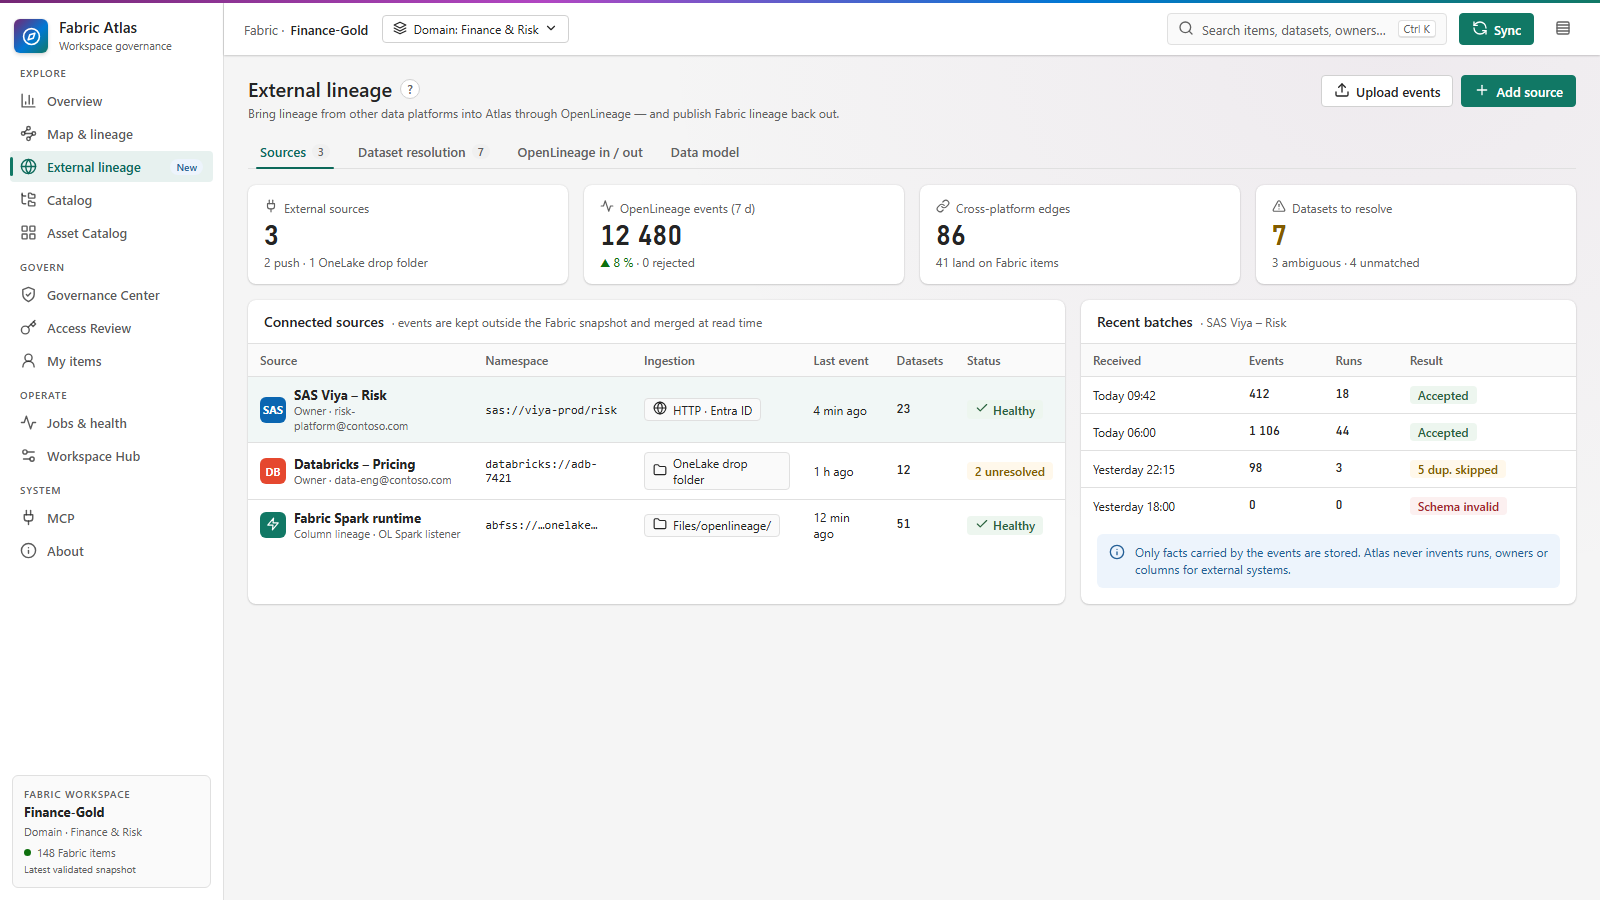
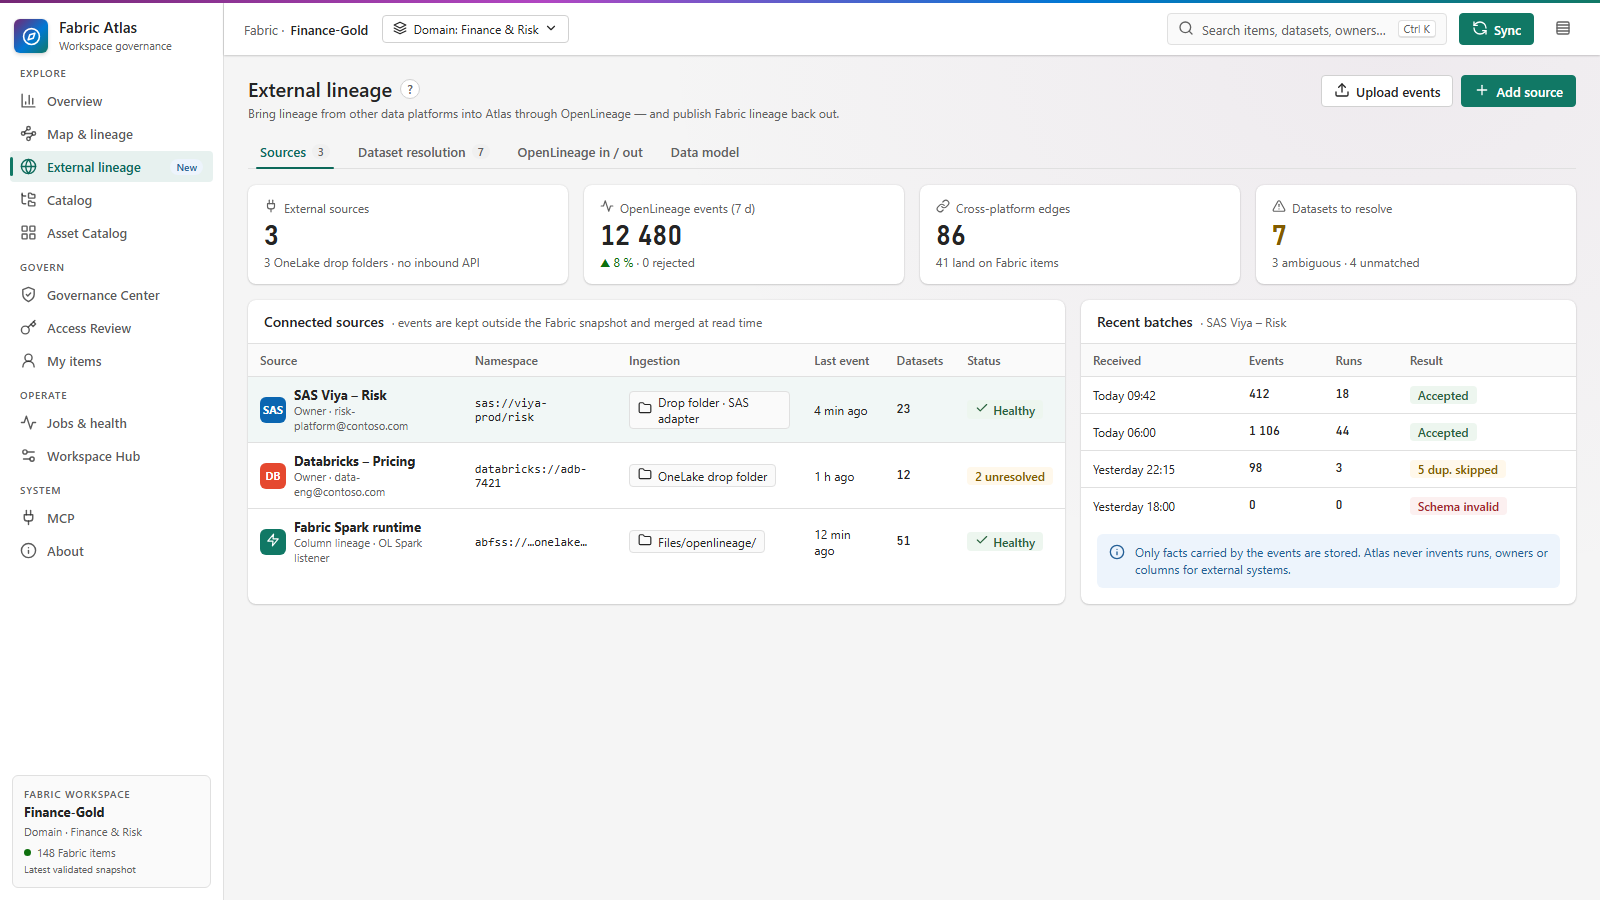
v2.7 external lineage mock: no inbound OpenLineage API, OneLake drop folder + push export
Copilot-Session: e629d3ec-786d-448e-9c22-e8e2cc1d7b80

diff --git a/v2.7/external-lineage/mock.html b/v2.7/external-lineage/mock.html
@@ -174,7 +174,7 @@ tr.sel td{background:rgba(17,120,101,.06)}
     <div class="tabs"><span class="tab on">Sources <span class="c">3</span></span><span class="tab">Dataset resolution <span class="c">7</span></span><span class="tab">OpenLineage in / out</span><span class="tab">Data model</span></div>
 
     <div class="grid" style="grid-template-columns:repeat(4,1fr);margin-bottom:16px">
-      <div class="card kpi"><div class="l"><span data-i="plug" data-s="14"></span>External sources</div><div class="v num">3</div><div class="d">2 push · 1 OneLake drop folder</div></div>
+      <div class="card kpi"><div class="l"><span data-i="plug" data-s="14"></span>External sources</div><div class="v num">3</div><div class="d">3 OneLake drop folders · no inbound API</div></div>
       <div class="card kpi"><div class="l"><span data-i="activity" data-s="14"></span>OpenLineage events (7 d)</div><div class="v num">12 480</div><div class="d"><span style="color:var(--healthy)">▲ 8 %</span> · 0 rejected</div></div>
       <div class="card kpi"><div class="l"><span data-i="link" data-s="14"></span>Cross-platform edges</div><div class="v num">86</div><div class="d">41 land on Fabric items</div></div>
       <div class="card kpi"><div class="l"><span data-i="alert" data-s="14"></span>Datasets to resolve</div><div class="v num" style="color:var(--w-fg)">7</div><div class="d">3 ambiguous · 4 unmatched</div></div>
@@ -186,7 +186,7 @@ tr.sel td{background:rgba(17,120,101,.06)}
         <table>
           <tr><th>Source</th><th>Namespace</th><th>Ingestion</th><th>Last event</th><th>Datasets</th><th>Status</th></tr>
           <tr class="sel"><td><div class="row"><span class="sys" style="background:#0a66b1">SAS</span><div><b>SAS Viya – Risk</b><div class="s11 muted">Owner · risk-platform@contoso.com</div></div></div></td>
-            <td class="mono s12">sas://viya-prod/risk</td><td><span class="chip"><span data-i="globe" data-s="14"></span>HTTP · Entra ID</span></td><td class="s12">4 min ago</td><td class="num">23</td><td><span class="badge b-s"><span data-i="check" data-s="14"></span>Healthy</span></td></tr>
+            <td class="mono s12">sas://viya-prod/risk</td><td><span class="chip"><span data-i="folder" data-s="14"></span>Drop folder · SAS adapter</span></td><td class="s12">4 min ago</td><td class="num">23</td><td><span class="badge b-s"><span data-i="check" data-s="14"></span>Healthy</span></td></tr>
           <tr><td><div class="row"><span class="sys" style="background:#e5482f">DB</span><div><b>Databricks – Pricing</b><div class="s11 muted">Owner · data-eng@contoso.com</div></div></div></td>
             <td class="mono s12">databricks://adb-7421</td><td><span class="chip"><span data-i="folder" data-s="14"></span>OneLake drop folder</span></td><td class="s12">1 h ago</td><td class="num">12</td><td><span class="badge b-w">2 unresolved</span></td></tr>
           <tr><td><div class="row"><span class="sys" style="background:var(--teal)"><span data-i="spark" data-s="14"></span></span><div><b>Fabric Spark runtime</b><div class="s11 muted">Column lineage · OL Spark listener</div></div></div></td>
@@ -293,20 +293,19 @@ tr.sel td{background:rgba(17,120,101,.06)}
   <!-- ============ SCREEN 4 : IN / OUT ============ -->
   <section class="scr" data-s="4">
     <div class="ph"><div><h1>External lineage <span class="help">?</span></h1>
-      <div class="obj">One OpenLineage parser for every input; one exporter to publish Fabric lineage to Marquez, Purview or any OL consumer.</div></div></div>
+      <div class="obj">One OpenLineage parser for every input; Atlas pushes Fabric lineage out — it does not host an OpenLineage API.</div></div></div>
     <div class="tabs"><span class="tab">Sources <span class="c">3</span></span><span class="tab">Dataset resolution <span class="c">7</span></span><span class="tab on">OpenLineage in / out</span><span class="tab">Data model</span></div>
     <div class="grid" style="grid-template-columns:1fr 1fr">
       <div class="card">
         <div class="card-h"><span data-i="download" data-s="16" style="color:var(--up)"></span><h3>Inbound · receive events</h3><span class="badge b-s" style="margin-left:auto">Enabled</span></div>
         <div class="card-b">
-          <div class="field">HTTP endpoint (OpenLineage HTTP transport)</div>
-          <div class="input mono s12" style="margin-bottom:12px"><span style="flex:1">https://atlas-finance.contoso.app/api/v1/lineage</span><span data-i="copy" data-s="14"></span></div>
+          <div class="field">OneLake drop folder (NDJSON, one event per line)</div>
+          <div class="input mono s12" style="margin-bottom:12px"><span style="flex:1">lh_atlas/Files/openlineage/inbox/sas-viya-risk/</span><span data-i="copy" data-s="14"></span></div>
           <div class="grid" style="grid-template-columns:1fr 1fr;gap:12px;margin-bottom:12px">
-            <div><div class="field">Authentication</div><div class="input s12"><span data-i="key" data-s="14"></span>Entra ID · app role Lineage.Write</div></div>
+            <div><div class="field">Authentication</div><div class="input s12"><span data-i="key" data-s="14"></span>OneLake · Contributor on folder</div></div>
             <div><div class="field">Bound source</div><div class="input s12">SAS Viya – Risk</div></div>
           </div>
-          <div class="field">Or drop NDJSON files in OneLake</div>
-          <div class="input mono s12" style="margin-bottom:14px">lh_atlas/Files/openlineage/inbox/</div>
+          <div class="note" style="background:var(--i-bg);color:var(--i-fg);margin-bottom:14px"><span data-i="info" data-s="16"></span><div>No OpenLineage HTTP endpoint: the Rayfin backend cannot host one. Optional: an adapter can call the Atlas function with an Entra ID token.</div></div>
           <div class="field">Accepted event (SAS adapter → OpenLineage RunEvent)</div>
 <div class="code">{ <span class="k">"eventType"</span>: <span class="s">"COMPLETE"</span>,
   <span class="k">"eventTime"</span>: <span class="s">"2026-10-29T06:12:44Z"</span>,
@@ -328,8 +327,8 @@ tr.sel td{background:rgba(17,120,101,.06)}
           <div class="seg" style="margin-bottom:12px"><span class="on">JobEvent / DatasetEvent</span><span>Static snapshot</span></div>
           <div class="field">Destination</div>
           <div class="grid" style="grid-template-columns:1fr 1fr;gap:8px;margin-bottom:14px">
-            <div style="border:2px solid var(--primary);border-radius:6px;padding:10px"><b class="s12">NDJSON in OneLake</b><div class="s11 muted mono">Files/openlineage/export/</div></div>
-            <div style="border:1px solid var(--border);border-radius:6px;padding:10px"><b class="s12">Marquez / OL endpoint</b><div class="s11 muted mono">https://marquez…/api/v1/lineage</div></div>
+            <div style="border:2px solid var(--primary);border-radius:6px;padding:10px"><b class="s12">NDJSON in OneLake</b><div class="s11 muted mono">Files/openlineage/outbox/</div></div>
+            <div style="border:1px solid var(--border);border-radius:6px;padding:10px"><b class="s12">Push to Marquez / OL endpoint</b><div class="s11 muted">Optional · needs outbound network</div></div>
           </div>
           <div class="note" style="background:var(--w-bg);color:var(--w-fg);margin-bottom:14px"><span data-i="alert" data-s="16"></span><div>Snapshot lineage is exported as <b>JobEvent / DatasetEvent</b> — no fake RunEvents. Real runs only for Spark jobs captured at runtime.</div></div>
           <div class="row" style="justify-content:flex-end;margin-bottom:14px"><span class="btn">Preview 214 events</span><span class="btn primary"><span data-i="upload" data-s="16"></span>Export</span></div>
@@ -486,7 +485,7 @@ if(s===3){
 
 if(s===5){
   const T=[
-   ["ExternalSystem","var(--ext)",30,30,[["SystemId","pk","guid"],["Name","","nvarchar"],["Namespace","","nvarchar"],["Ingestion","","http|folder"],["OwnerUpn","","nvarchar"]]],
+   ["ExternalSystem","var(--ext)",30,30,[["SystemId","pk","guid"],["Name","","nvarchar"],["Namespace","","nvarchar"],["Ingestion","","folder|upload"],["OwnerUpn","","nvarchar"]]],
    ["OpenLineageBatch","var(--ext)",30,250,[["BatchId","pk","guid"],["SystemId","fk","guid"],["ReceivedAt","","datetime2"],["EventCount","","int"],["Status","","varchar"]]],
    ["OpenLineageEvent","var(--ext)",30,465,[["EventId","pk","guid"],["BatchId","fk","guid"],["RunId · EventType","",""],["Payload (trimmed)","","json"]]],
    ["ExternalDataset","var(--purple)",340,30,[["DatasetId","pk","hash(ns,name)"],["Namespace · Name","","nvarchar"],["FabricItemId","fk","guid?"],["State","","matched|ambiguous|…"],["Evidence","","varchar"]]],
